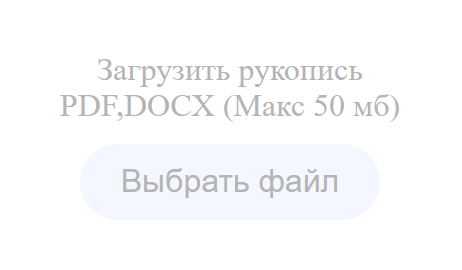
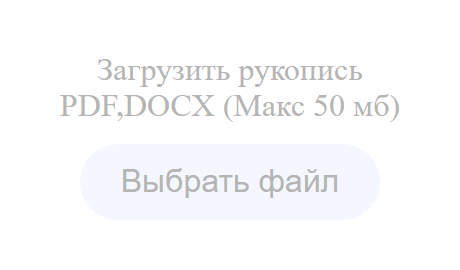
total

diff --git a/Application.html b/Application.html
@@ -59,29 +59,6 @@
 				<a href="/Contacts.html" class="link">Контакты</a>
 				<a href="/Application.html" class="link active">Подача заявки</a>
 			</div>
-			<div class="sectionPadding"></div>
-			<footer>
-				<div>
-					<p>
-						г. Бишкек, ул. Ж.Абдрахманова 170 А
-						<br>
-						<br>
-						[email redacted]
-						<br>
-						<br>
-						[phone redacted]
-					</p>
-
-					<img src="/resource/icon/logo.png" alt="">
-
-					<div class="footerContants">
-						<a href=""><img src="/resource/icon/footerFacebook.png" alt=""></a>
-						<a href=""><img src="/resource/icon/footerInstagram.png" alt=""></a>
-						<a href=""><img src="/resource/icon/footerTelegram.png" alt=""></a>
-					</div>
-				</div>
-				<span>© 2026 Государственная книжная палата при Министерстве культуры, информации и молодежной политики Кыргызской Республики</span>
-			</footer>
 		</div>
 
 		<div class="banner">
@@ -221,7 +198,7 @@
 							<img src="/resource/downloadFile.png" alt="">
 						</div>
 						<div>
-							<img src="/resource/downloadFile.png" alt="">
+							<img src="/resource/downloadFile-2.png" alt="">
 						</div>
 					</div>
 

diff --git a/Contacts.html b/Contacts.html
@@ -60,29 +60,6 @@
 				<a href="/Contacts.html" class="link active">Контакты</a>
 				<a href="/Application.html" class="link">Подача заявки</a>
 			</div>
-			<div class="sectionPadding"></div>
-			<footer>
-				<div>
-					<p>
-						г. Бишкек, ул. Ж.Абдрахманова 170 А
-						<br>
-						<br>
-						[email redacted]
-						<br>
-						<br>
-						[phone redacted]
-					</p>
-
-					<img src="/resource/icon/logo.png" alt="">
-
-					<div class="footerContants">
-						<a href=""><img src="/resource/icon/footerFacebook.png" alt=""></a>
-						<a href=""><img src="/resource/icon/footerInstagram.png" alt=""></a>
-						<a href=""><img src="/resource/icon/footerTelegram.png" alt=""></a>
-					</div>
-				</div>
-				<span>© 2026 Государственная книжная палата при Министерстве культуры, информации и молодежной политики Кыргызской Республики</span>
-			</footer>
 		</div>
 
 		<div class="banner">

diff --git a/index.html b/index.html
@@ -60,29 +60,6 @@
 				<a href="/Contacts.html" class="link">Контакты</a>
 				<a href="/Application.html" class="link">Подача заявки</a>
 			</div>
-			<div class="sectionPadding"></div>
-			<footer>
-				<div>
-					<p>
-						г. Бишкек, ул. Ж.Абдрахманова 170 А
-						<br>
-						<br>
-						[email redacted]
-						<br>
-						<br>
-						[phone redacted]
-					</p>
-
-					<img src="/resource/icon/logo.png" alt="">
-
-					<div class="footerContants">
-						<a href=""><img src="/resource/icon/footerFacebook.png" alt=""></a>
-						<a href=""><img src="/resource/icon/footerInstagram.png" alt=""></a>
-						<a href=""><img src="/resource/icon/footerTelegram.png" alt=""></a>
-					</div>
-				</div>
-				<span>© 2026 Государственная книжная палата при Министерстве культуры, информации и молодежной политики Кыргызской Республики</span>
-			</footer>
 		</div>
 
 		<div class="banner">

diff --git a/templates/About-us/index.html b/templates/About-us/index.html
@@ -59,29 +59,6 @@
 				<a href="/Contacts.html" class="link">Контакты</a>
 				<a href="/Application.html" class="link">Подача заявки</a>
 			</div>
-			<div class="sectionPadding"></div>
-			<footer>
-				<div>
-					<p>
-						г. Бишкек, ул. Ж.Абдрахманова 170 А
-						<br>
-						<br>
-						[email redacted]
-						<br>
-						<br>
-						[phone redacted]
-					</p>
-
-					<img src="/resource/icon/logo.png" alt="">
-
-					<div class="footerContants">
-						<a href=""><img src="/resource/icon/footerFacebook.png" alt=""></a>
-						<a href=""><img src="/resource/icon/footerInstagram.png" alt=""></a>
-						<a href=""><img src="/resource/icon/footerTelegram.png" alt=""></a>
-					</div>
-				</div>
-				<span>© 2026 Государственная книжная палата при Министерстве культуры, информации и молодежной политики Кыргызской Республики</span>
-			</footer>
 		</div>
 
 		<div class="banner">

diff --git a/templates/Book-catalog/index.html b/templates/Book-catalog/index.html
@@ -60,29 +60,6 @@
 				<a href="/Contacts.html" class="link">Контакты</a>
 				<a href="/Application.html" class="link">Подача заявки</a>
 			</div>
-			<div class="sectionPadding"></div>
-			<footer>
-				<div>
-					<p>
-						г. Бишкек, ул. Ж.Абдрахманова 170 А
-						<br>
-						<br>
-						[email redacted]
-						<br>
-						<br>
-						[phone redacted]
-					</p>
-
-					<img src="/resource/icon/logo.png" alt="">
-
-					<div class="footerContants">
-						<a href=""><img src="/resource/icon/footerFacebook.png" alt=""></a>
-						<a href=""><img src="/resource/icon/footerInstagram.png" alt=""></a>
-						<a href=""><img src="/resource/icon/footerTelegram.png" alt=""></a>
-					</div>
-				</div>
-				<span>© 2026 Государственная книжная палата при Министерстве культуры, информации и молодежной политики Кыргызской Республики</span>
-			</footer>
 		</div>
 
 		<div class="banner">

diff --git a/templates/Chronicles/index.html b/templates/Chronicles/index.html
@@ -60,29 +60,6 @@
 				<a href="/Contacts.html" class="link">Контакты</a>
 				<a href="/Application.html" class="link">Подача заявки</a>
 			</div>
-			<div class="sectionPadding"></div>
-			<footer>
-				<div>
-					<p>
-						г. Бишкек, ул. Ж.Абдрахманова 170 А
-						<br>
-						<br>
-						[email redacted]
-						<br>
-						<br>
-						[phone redacted]
-					</p>
-
-					<img src="/resource/icon/logo.png" alt="">
-
-					<div class="footerContants">
-						<a href=""><img src="/resource/icon/footerFacebook.png" alt=""></a>
-						<a href=""><img src="/resource/icon/footerInstagram.png" alt=""></a>
-						<a href=""><img src="/resource/icon/footerTelegram.png" alt=""></a>
-					</div>
-				</div>
-				<span>© 2026 Государственная книжная палата при Министерстве культуры, информации и молодежной политики Кыргызской Республики</span>
-			</footer>
 		</div>
 
 		<div class="banner">

diff --git a/templates/Departments/index.html b/templates/Departments/index.html
@@ -60,29 +60,6 @@
 				<a href="/Contacts.html" class="link">Контакты</a>
 				<a href="/Application.html" class="link">Подача заявки</a>
 			</div>
-			<div class="sectionPadding"></div>
-			<footer>
-				<div>
-					<p>
-						г. Бишкек, ул. Ж.Абдрахманова 170 А
-						<br>
-						<br>
-						[email redacted]
-						<br>
-						<br>
-						[phone redacted]
-					</p>
-
-					<img src="/resource/icon/logo.png" alt="">
-
-					<div class="footerContants">
-						<a href=""><img src="/resource/icon/footerFacebook.png" alt=""></a>
-						<a href=""><img src="/resource/icon/footerInstagram.png" alt=""></a>
-						<a href=""><img src="/resource/icon/footerTelegram.png" alt=""></a>
-					</div>
-				</div>
-				<span>© 2026 Государственная книжная палата при Министерстве культуры, информации и молодежной политики Кыргызской Республики</span>
-			</footer>
 		</div>
 
 		<div class="banner">

diff --git a/templates/News/News-page.html b/templates/News/News-page.html
@@ -60,29 +60,6 @@
 				<a href="/Contacts.html" class="link">Контакты</a>
 				<a href="/Application.html" class="link">Подача заявки</a>
 			</div>
-			<div class="sectionPadding"></div>
-			<footer>
-				<div>
-					<p>
-						г. Бишкек, ул. Ж.Абдрахманова 170 А
-						<br>
-						<br>
-						[email redacted]
-						<br>
-						<br>
-						[phone redacted]
-					</p>
-
-					<img src="/resource/icon/logo.png" alt="">
-
-					<div class="footerContants">
-						<a href=""><img src="/resource/icon/footerFacebook.png" alt=""></a>
-						<a href=""><img src="/resource/icon/footerInstagram.png" alt=""></a>
-						<a href=""><img src="/resource/icon/footerTelegram.png" alt=""></a>
-					</div>
-				</div>
-				<span>© 2026 Государственная книжная палата при Министерстве культуры, информации и молодежной политики Кыргызской Республики</span>
-			</footer>
 		</div>
 
 		<div class="banner">

diff --git a/templates/News/index.html b/templates/News/index.html
@@ -60,29 +60,6 @@
 				<a href="/Contacts.html" class="link">Контакты</a>
 				<a href="/Application.html" class="link">Подача заявки</a>
 			</div>
-			<div class="sectionPadding"></div>
-			<footer>
-				<div>
-					<p>
-						г. Бишкек, ул. Ж.Абдрахманова 170 А
-						<br>
-						<br>
-						[email redacted]
-						<br>
-						<br>
-						[phone redacted]
-					</p>
-
-					<img src="/resource/icon/logo.png" alt="">
-
-					<div class="footerContants">
-						<a href=""><img src="/resource/icon/footerFacebook.png" alt=""></a>
-						<a href=""><img src="/resource/icon/footerInstagram.png" alt=""></a>
-						<a href=""><img src="/resource/icon/footerTelegram.png" alt=""></a>
-					</div>
-				</div>
-				<span>© 2026 Государственная книжная палата при Министерстве культуры, информации и молодежной политики Кыргызской Республики</span>
-			</footer>
 		</div>
 
 		<div class="banner">

diff --git a/templates/Online-services/index.html b/templates/Online-services/index.html
@@ -60,29 +60,6 @@
 				<a href="/Contacts.html" class="link">Контакты</a>
 				<a href="/Application.html" class="link">Подача заявки</a>
 			</div>
-			<div class="sectionPadding"></div>
-			<footer>
-				<div>
-					<p>
-						г. Бишкек, ул. Ж.Абдрахманова 170 А
-						<br>
-						<br>
-						[email redacted]
-						<br>
-						<br>
-						[phone redacted]
-					</p>
-
-					<img src="/resource/icon/logo.png" alt="">
-
-					<div class="footerContants">
-						<a href=""><img src="/resource/icon/footerFacebook.png" alt=""></a>
-						<a href=""><img src="/resource/icon/footerInstagram.png" alt=""></a>
-						<a href=""><img src="/resource/icon/footerTelegram.png" alt=""></a>
-					</div>
-				</div>
-				<span>© 2026 Государственная книжная палата при Министерстве культуры, информации и молодежной политики Кыргызской Республики</span>
-			</footer>
 		</div>
 
 		<div class="banner">

diff --git a/resource/css/style.css b/resource/css/style.css
@@ -679,7 +679,7 @@ footer {
 }
 
 footer > div {
-	max-width: 1500px;
+/*	max-width: 1500px;*/
 	width: 100%;
 	height: 100%;
 	display: flex;
@@ -689,6 +689,7 @@ footer > div {
 	color: #fff;
 	margin: 0 auto;
 	overflow: hidden;
+	padding: 0 10px;
 }
 
 footer > div > img {
@@ -699,7 +700,7 @@ footer > span {
 	width: 100%;
 	background-color: #283F74;
 	text-align: center;
-	padding: 12px 0;
+	padding: 5px 0;
 	font-size: 24px;
 	color: #fff;
 }
@@ -944,11 +945,11 @@ footer > span {
 	}
 
 	footer > div > img {
-		width: 300px;
+		width: 190px;
 	}
 
 	footer > span {
-		font-size: 16px;
+		font-size: 14px;
 	}
 
 	.footerContants > a > img {